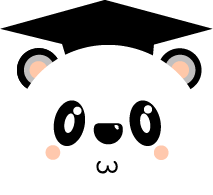
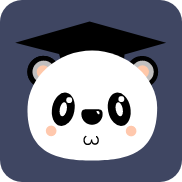
show accept group button if group is correct

diff --git a/view-components/settingsView.js b/view-components/settingsView.js
@@ -1,51 +1,57 @@
 import React from "react";
-import { SafeAreaView, Text } from "react-native";
+import { Text } from "react-native";
 import styled from "styled-components/native";
 
 export default function settingsView() {
   return (
     <Container>
-    <TopBar>
-    <Logo/>
-    <Title>Расписание МИРЭА 1.0</Title>
-    <Developers>by hydromoll and misha98857</Developers>
-    </TopBar>
-        <GroupContainer>
-          <Urgrp>Ваша группа</Urgrp>
-          <GroupNum>
-            <Text style={{ color: "white", fontSize: 20 }}> ИВБО-13-19 </Text>
-          </GroupNum>
-        </GroupContainer>
-        <Problem>Возникла проблема?</Problem>
+      <TopBar>
+        <Logo source={require("../images/panda.png")} />
+        <Title>Расписание МИРЭА 1.0</Title>
+        <Developers>by hydromoll and misha98857</Developers>
+      </TopBar>
+      <GroupContainer>
+        <Urgrp>Ваша группа</Urgrp>
+        <GroupNum>
+          <Text style={{ color: "white", fontSize: 20 }}> ИВБО-13-19 </Text>
+        </GroupNum>
+      </GroupContainer>
+      <Problem>Возникла проблема?</Problem>
     </Container>
   );
 }
 const Container = styled.View`
-  justify-content: center;
   align-items: center;
   width: 100%;
   height: 100%;
   background-color: #141519;
 `;
 const TopBar = styled.View`
-height:361px;
-width:414px;
-background-color:#1F2025;
+  align-items: center;
+  justify-content: center;
+  height: 45%;
+  width: 100%;
+  background-color: #1F2025;
+  border-bottom-left-radius: 22px;
+  border-bottom-right-radius: 22px;
 `;
 const Logo = styled.Image`
-height:182px;
-width:182px;
+  height: 120px;
+  width: 120px;
 `;
 const Title = styled.Text`
+  margin-top:8%;
   color: white;
+  font-size: 20px;
 `;
 const Developers = styled.Text`
+  font-size: 20px;
   color: white;
   margin-top: 5%;
 `;
 const GroupContainer = styled.View`
-  width: 85%;
-  height: 30%;
+  width: 95%;
+  height: 15%;
   border-radius: 10px;
   padding: 5%;
   background-color: #1f2025;

diff --git a/App.js b/App.js
@@ -15,20 +15,20 @@ export const ScheduleContext = React.createContext({
 
 const App = () => {
   const [showRealApp, setShowRealApp] = useState(false);
-  // const [groups, setGroups] = useState([]);
-  // const [isLoadingGroups, setLoadingGroups] = useState([]);
   const [startDate, setStartDate] = useState(new Date());
+  const [currentDate, setCurrentDate] = useState(new Date());
   const [isLoadingSchedule, setLoadingSchedule] = useState(true);
   const [schedule, setSchedule] = useState([]);
   const [weekNumber, setWeekNumber] = useState("0");
   const [weekName, setWeekName] = useState("odd");
-  const currentDate = new Date();
+  const [isCorrectGroup, setCorrectGroup] = useState(false);
 
   const getGroupFromStorage = async () => {
     try {
       const group = await AsyncStorage.getItem("group");
       if (group !== null) {
         loadSchedule(setSchedule, setLoadingSchedule, setStartDate, setWeekNumber, setWeekName, group);
+        setCurrentDate(new Date());
         setShowRealApp(true);
       }
     } catch (e) {
@@ -40,6 +40,7 @@ const App = () => {
       await AsyncStorage.setItem("group", group.toString());
       await AsyncStorage.setItem("showApp", true);
       loadSchedule(setSchedule, setLoadingSchedule, setStartDate, setWeekNumber, setWeekName, group);
+      setCurrentDate(new Date());
       setShowRealApp(true);
     } catch (e) {
     }
@@ -60,7 +61,7 @@ const App = () => {
         weekName,
         weekNumber
       }}><BottomNavigator /></ScheduleContext.Provider> :
-    <Start chooseGroupEvent={(group) => setGroup(group)} />;
+    <Start chooseGroupEvent={(group) => setGroup(group)} isCorrectGroup={isCorrectGroup}/>;
 };
 
 export default App;

diff --git a/view-components/startScreenView.js b/view-components/startScreenView.js
@@ -4,6 +4,15 @@ import { Check } from "../images/Icons";
 
 export default function startScreenView(props) {
   const [text, setText] = useState();
+  const [isCorrectGroupName, setIsCorrectGroupName] = useState(false);
+
+  const setGroupName = (groupName) => {
+    setText(groupName);
+    const re = /^([а-яА-Я\w]{4}-\d{2}-\d{2})$/g;
+    const isGroupCorrect = re.test(groupName);
+    setIsCorrectGroupName(isGroupCorrect);
+  };
+
   return (
     <Container>
       <Hi>Привет!</Hi>
@@ -12,9 +21,9 @@ export default function startScreenView(props) {
         onPress={() => props.chooseGroupEvent()}
         placeholder="XXXX-00-00"
         placeholderTextColor="white"
-        onChangeText={(text) => setText(text)}
+        onChangeText={(text) => setGroupName(text)}
       />
-      <Forward onPress={() => props.chooseGroupEvent(text)}><Check /></Forward>
+      <Forward style={{visibility: isCorrectGroupName ? "visible" : "hidden"}} onPress={() => props.chooseGroupEvent(text)}><Check /></Forward>
       <Problembutton>
         <Problem onPress={() => props.chooseGroupEvent()}>
           Возникла проблема?
@@ -51,7 +60,7 @@ const GroupField = styled.TextInput`
 `;
 const Forward = styled.TouchableOpacity`
   align-items: center;
-  justify-content: center
+  justify-content: center;
   border-radius: 7px;
   margin-top: 30px;
   height: 52px;

diff --git a/view-components/pairCard.js b/view-components/pairCard.js
@@ -1,6 +1,7 @@
 import { Text } from "react-native";
 import styled from "styled-components/native/dist/styled-components.native.esm";
 import React from "react";
+import normalize from "../utils/normalizeFontSize";
 
 const PairCard = (props) => (
   <Card key={props.item.key}>
@@ -51,7 +52,7 @@ const Endtime = styled.Text`
 `;
 
 const Name = styled.Text`
-  font-size: 18px;
+  font-size: ${normalize(16)};
   color: white;
 `;
 const Title = styled.View`
@@ -63,6 +64,7 @@ const Rooom = styled.Text`
   width: 20%;
   text-align: center;
   background-color: #4b4f5b;
+  font-size: ${normalize(14)};
   border-radius: 5px;
   padding: 5px 10px;
 `;

diff --git a/utils/normalizeFontSize.js b/utils/normalizeFontSize.js
@@ -1,0 +1,20 @@
+import { Dimensions, Platform, PixelRatio } from "react-native";
+
+const {
+  width: SCREEN_WIDTH,
+  height: SCREEN_HEIGHT
+} = Dimensions.get("window");
+
+// based on iphone 5s's scale
+const scale = SCREEN_WIDTH / 320;
+
+const normalize = (size) => {
+  const newSize = size * scale;
+  if (Platform.OS === "ios") {
+    return Math.round(PixelRatio.roundToNearestPixel(newSize));
+  } else {
+    return Math.round(PixelRatio.roundToNearestPixel(newSize)) - 2;
+  }
+}
+
+export default normalize;
